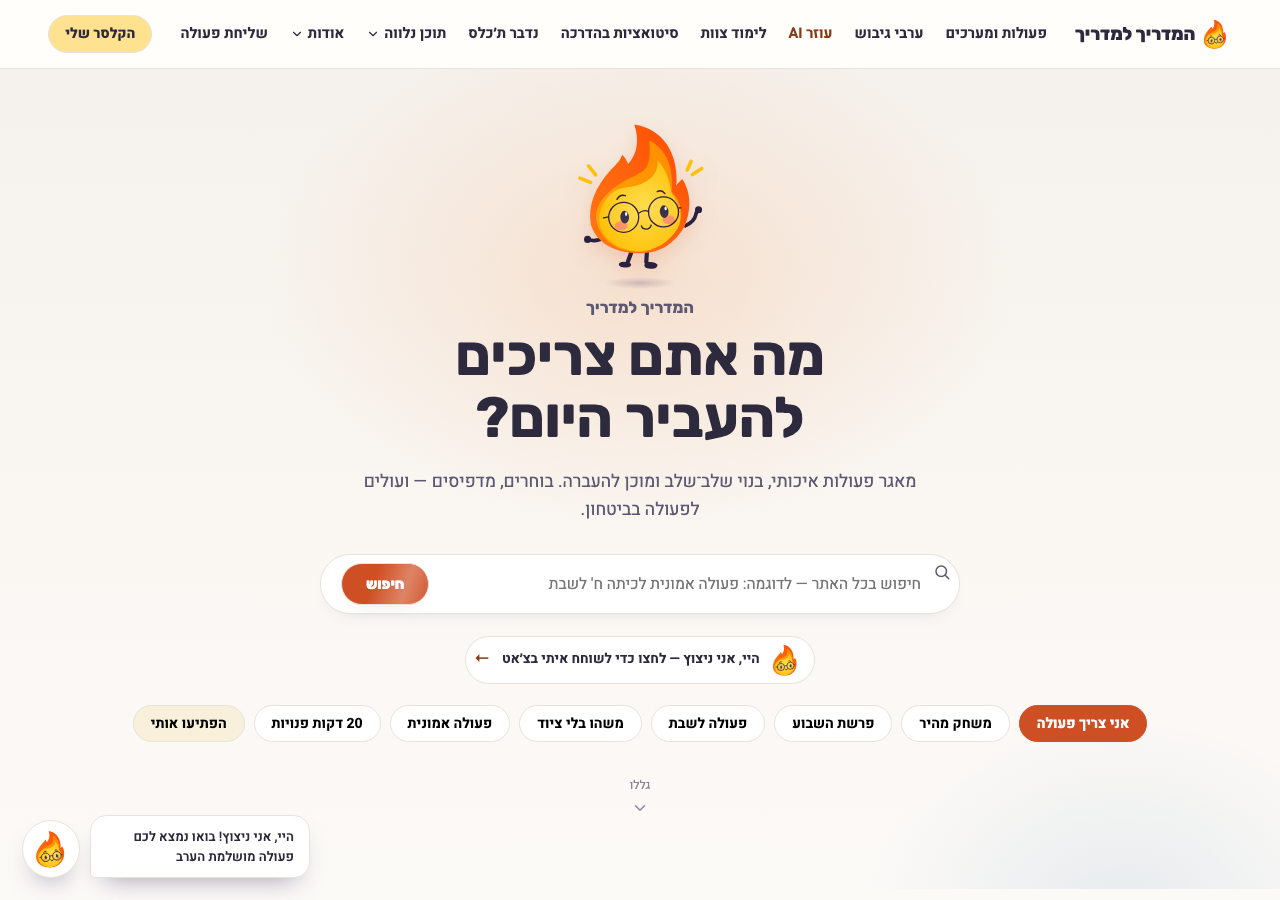
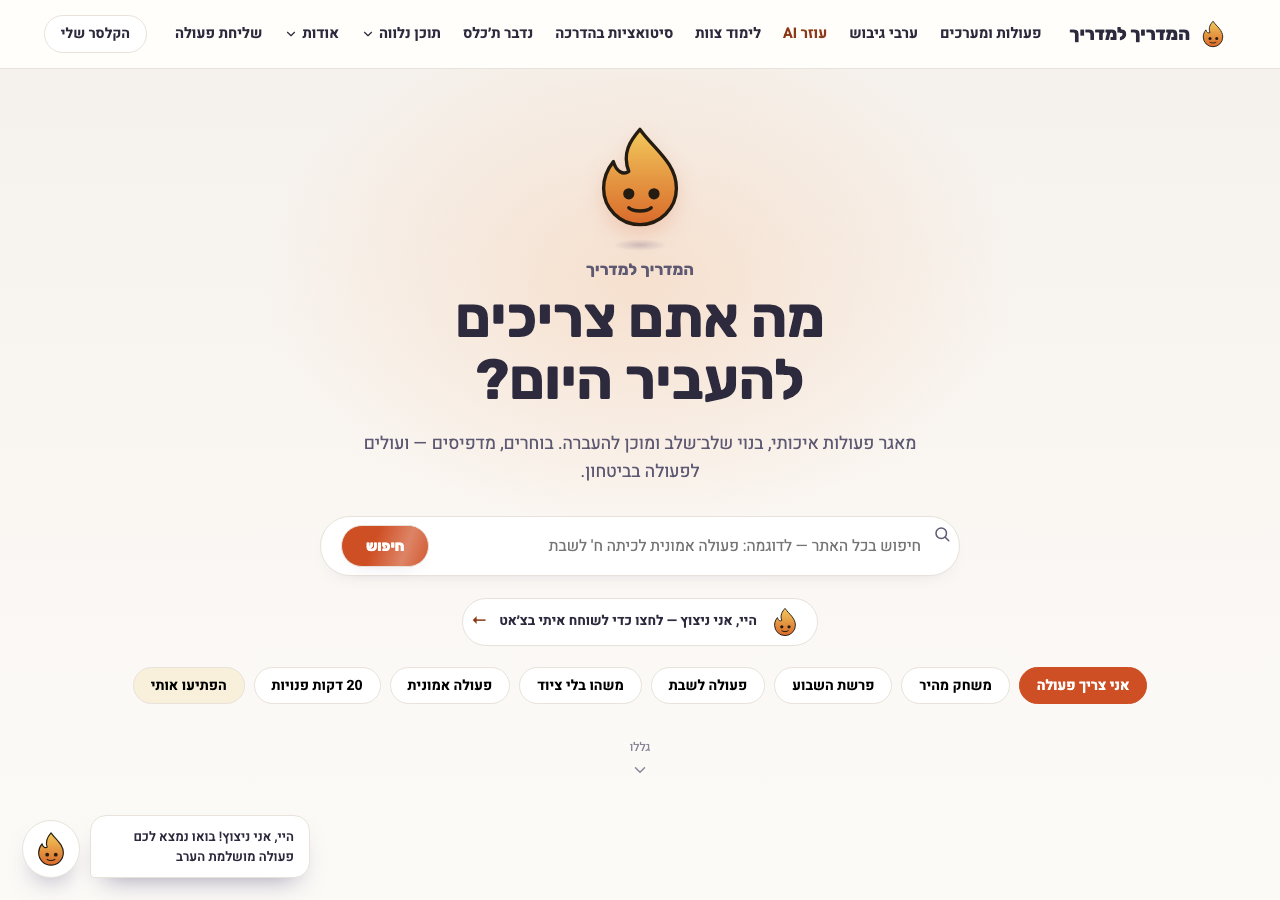
feat(design): restore the original Spark mascot, keep refined background and buttons

diff --git a/src/styles/global.css b/src/styles/global.css
@@ -505,7 +505,7 @@ a.new-card:hover { transform: perspective(800px) translate(-3px, -5px) rotateX(v
 
 /* ניצוץ בדף הבית: ריחוף עדין, קרני אור דקות וכוכבים רכים בצדדים */
 .hm { position: relative; margin: 0 auto; }
-.hm-flame { position: relative; z-index: 1; width: 100%; transform-origin: 50% 92%; }
+.hm-flame { position: relative; z-index: 1; width: 100%; transform-origin: 50% 92%; animation: bob 3.6s ease-in-out infinite; }
 .hm-flame svg { display: block; margin: 0 auto; filter: drop-shadow(0 8px 10px rgba(207, 79, 36, .18)); }
 .hm-rays { position: absolute; left: 50%; top: 46%; border-radius: 50%; pointer-events: none;
   background: repeating-conic-gradient(from 0deg, rgba(255, 205, 110, .3) 0deg 3deg, rgba(255, 205, 110, 0) 3deg 24deg);
@@ -771,36 +771,6 @@ a.mt:hover .mt-ic { transform: rotate(-8deg) scale(1.08); }
 .hero-brand { font-family: 'Rubik', sans-serif; font-weight: 600; font-size: 16px; letter-spacing: .2px; margin-top: 6px; color: var(--ink-soft); }
 .hero-scene h1 { color: var(--ink); }
 .hero-scene .hero-search { border-color: var(--stroke); }
-
-
-/* =====================================================================
-   ניצוץ מונפש: נשימה, ריצוד להבה, מצמוץ, נפנוף ידיים, צעידה קלה וניצנוצים
-   ===================================================================== */
-.spark { overflow: visible; }
-.spark-anim .spark-eyes { transform-box: fill-box; transform-origin: 50% 55%; animation: sparkBlink 5.2s ease-in-out infinite; }
-.spark-anim:not(.spark-lite) .spark-root { transform-box: fill-box; transform-origin: 50% 100%; animation: sparkBreathe 3.4s ease-in-out infinite; }
-.spark-anim:not(.spark-lite) .spark-outer { transform-box: fill-box; transform-origin: 50% 100%; animation: sparkFlick 2.3s ease-in-out infinite; }
-.spark-anim:not(.spark-lite) .spark-mid { transform-box: fill-box; transform-origin: 50% 100%; animation: sparkFlick 1.9s ease-in-out -.6s infinite; }
-.spark-anim:not(.spark-lite) .spark-arm-r { transform-origin: 1024px 690px; animation: sparkWave 1.5s ease-in-out infinite; }
-.spark-anim:not(.spark-lite) .spark-arm-l { transform-origin: 522px 760px; animation: sparkSway 3s ease-in-out infinite; }
-.spark-anim:not(.spark-lite) .spark-leg-l { transform-origin: 692px 846px; animation: sparkStep 1.7s ease-in-out infinite; }
-.spark-anim:not(.spark-lite) .spark-leg-r { transform-origin: 786px 848px; animation: sparkStep 1.7s ease-in-out -.85s infinite; }
-.spark-anim:not(.spark-lite) .spark-s { transform-box: fill-box; transform-origin: 50% 50%; animation: sparkPulse 2.2s ease-in-out infinite; }
-.spark-anim:not(.spark-lite) .spark-s2 { animation-delay: -.5s; }
-.spark-anim:not(.spark-lite) .spark-s3 { animation-delay: -1.1s; }
-.spark-anim:not(.spark-lite) .spark-s4 { animation-delay: -1.6s; }
-
-@keyframes sparkBreathe { 0%, 100% { transform: translateY(0) scale(1, 1); } 50% { transform: translateY(-1.6%) scale(.992, 1.014); } }
-@keyframes sparkFlick { 0%, 100% { transform: scale(1, 1) skewX(0deg); } 35% { transform: scale(1.012, 1.03) skewX(-1.4deg); } 70% { transform: scale(.992, 1.012) skewX(1deg); } }
-@keyframes sparkBlink { 0%, 91%, 100% { transform: scaleY(1); } 94.5% { transform: scaleY(.08); } }
-@keyframes sparkWave { 0%, 100% { transform: rotate(-8deg); } 50% { transform: rotate(16deg); } }
-@keyframes sparkSway { 0%, 100% { transform: rotate(2deg); } 50% { transform: rotate(-5deg); } }
-@keyframes sparkStep { 0%, 100% { transform: rotate(-3deg); } 50% { transform: rotate(3deg); } }
-@keyframes sparkPulse { 0%, 100% { opacity: 1; transform: scale(1); } 50% { opacity: .35; transform: scale(.8); } }
-
-@media (prefers-reduced-motion: reduce) {
-  .spark, .spark * { animation: none !important; }
-}
 
 
 /* =====================================================================

diff --git a/src/components/TeenAvatar.tsx b/src/components/TeenAvatar.tsx
@@ -1,5 +1,4 @@
 import type { Character } from '../data/types';
-import { Spark } from './Spark';
 
 const paths: Record<Character, { hair: string; hairFill: string; skin: string; shirt: string; extra?: string }> = {
   A: {
@@ -91,6 +90,25 @@ export function TeenAvatar({ character, size = 60 }: { character: Character; siz
   );
 }
 
-export function MascotIcon({ size = 40, className, body }: { size?: number; className?: string; body?: boolean }) {
-  return <Spark size={size} className={className} body={body} />;
+export function MascotIcon({ size = 40, className }: { size?: number; className?: string }) {
+  return (
+    <svg width={size} height={size} viewBox="0 0 80 80" className={className}>
+      <defs>
+        <linearGradient id="sparkGrad" x1="0" y1="0" x2="0" y2="1">
+          <stop offset="0%" stopColor="#F2C85B" />
+          <stop offset="100%" stopColor="#D96A2B" />
+        </linearGradient>
+      </defs>
+      <path
+        d="M40 6c10 14 26 24 26 42a26 26 0 0 1-52 0c0-8 3-14 7-19 2 7 7 10 11 7-5-13 1-22 8-30z"
+        fill="url(#sparkGrad)"
+        stroke="#241C11"
+        strokeWidth="2.4"
+        strokeLinejoin="round"
+      />
+      <circle cx="32" cy="52" r="4" fill="#241C11" />
+      <circle cx="50" cy="52" r="4" fill="#241C11" />
+      <path d="M32 62c3 3 13 3 16 0" stroke="#241C11" strokeWidth="2.4" fill="none" strokeLinecap="round" />
+    </svg>
+  );
 }

diff --git a/src/components/HeroMascot.tsx b/src/components/HeroMascot.tsx
@@ -2,7 +2,12 @@ import { MascotIcon } from './TeenAvatar';
 
 // ניצוץ בדף הבית: הדמות המקורית של האתר, עם ריחוף עדין, קרני אור דקות וכוכבים מנצנצים בצדדים.
 // בלי תזוזות עיניים ובלי סיבוב אחרי העכבר.
-const STARS: { x: string; y: string; s: number; d: number }[] = [];
+const STARS: { x: string; y: string; s: number; d: number }[] = [
+  { x: '-30%', y: '24%', s: 0.14, d: 0 },
+  { x: '-48%', y: '60%', s: 0.09, d: 1.4 },
+  { x: '124%', y: '30%', s: 0.12, d: 2.1 },
+  { x: '142%', y: '66%', s: 0.08, d: 0.7 },
+];
 
 export function HeroMascot({ size = 120 }: { size?: number }) {
   return (
@@ -13,7 +18,7 @@ export function HeroMascot({ size = 120 }: { size?: number }) {
           <path d="M12 0 14.6 9.4 24 12 14.6 14.6 12 24 9.4 14.6 0 12 9.4 9.4Z" fill="#FFE59A" />
         </svg>
       ))}
-      <div className="hm-flame"><MascotIcon size={size} body /></div>
+      <div className="hm-flame"><MascotIcon size={size} /></div>
       <div className="hm-shadow" />
     </div>
   );

diff --git a/src/pages/Home.tsx b/src/pages/Home.tsx
@@ -85,7 +85,7 @@ export function Home() {
       <div className="wrap" style={{ position: 'relative', zIndex: 1, paddingTop: 52, paddingBottom: 72, textAlign: 'center' }}>
         <Reveal>
           <div style={{ marginBottom: 4 }}>
-            <HeroMascot size={150} />
+            <HeroMascot size={112} />
             <div className="hero-brand">המדריך למדריך</div>
           </div>
         </Reveal>
